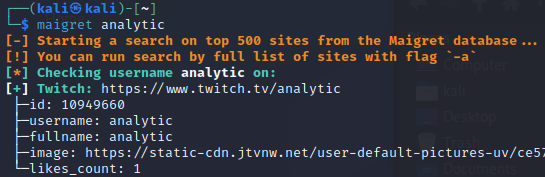
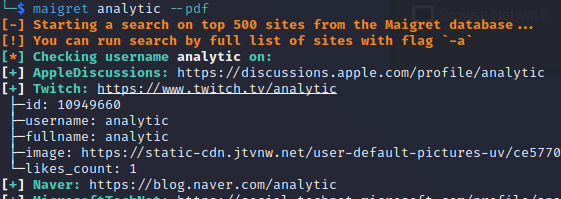
maigret

Changed region(s): [[0.0, 0.0, 1.0, 1.0]]

diff --git a/_posts/#2022-08-03-day_045_template.md b/_posts/#2022-08-03-day_045_template.md
@@ -71,6 +71,26 @@ As a penetration tester it is important to leverage all avenues of approach that
 
 <br>
 
+![](https://raw.githubusercontent.com/matthewomccorkle/matthewomccorkle.github.io/master/_posts/assets/100%20tools/maigret/maigret1.PNG)
+
+    Step 2:
+    View the help menu to understand the options and 
+    functionality of Maigret:
+
+    maigret -h
+
+<br>
+
+![](https://raw.githubusercontent.com/matthewomccorkle/matthewomccorkle.github.io/master/_posts/assets/100%20tools/maigret/maigret2.PNG)
+
+    Step 3:
+    For this example I performed a search for the username 'analytic' by 
+    entering the following command:
+
+    maigret analytic
+
+<br>
+
 ![]()
 
 ### 6. **Summary**
